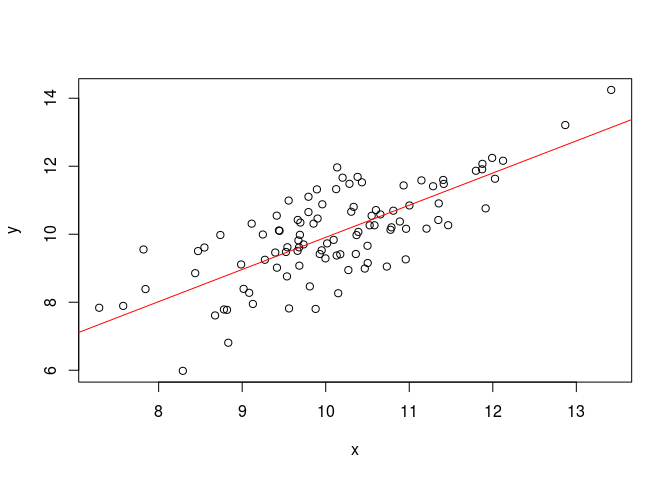
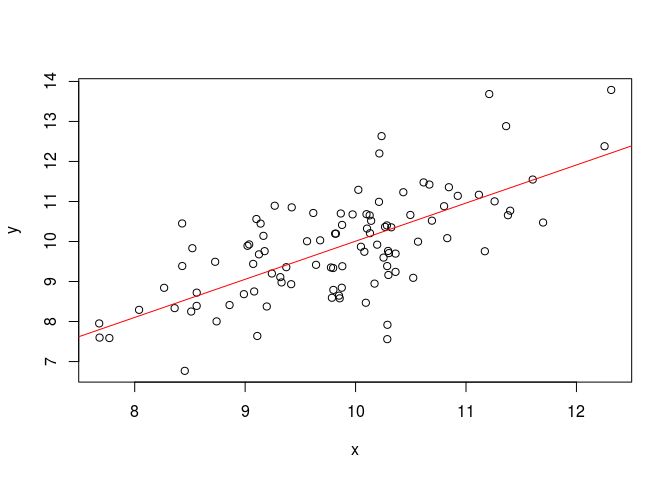
Readme

diff --git a/README.md b/README.md
@@ -1,19 +1,114 @@
+Bayesian linear regression
+================
+Lukasz Telezynski
+2017-01-14
+
 blm package
 ===========
 
 Description
 -----------
 
-blm is a R package that can be used to fit bayesian linear models.
+blm is a R package that can be used to fit bayesian linear models. It creates blm objects and is very similar to lm().
+
+Usage example
+-------------
+
+First blm package needs to be loaded into R.
+
+``` r
+library(blm)
+```
+
+We need some data so we generate a dataset with 2 variables x and y.
+
+``` r
+x <- stats::rnorm(100, 10, 1)
+y<- stats::rnorm(100, x, 1)
+fit<-blm(y~x,1,1)
+```
+
+Finally, we can create blm object which fits linear model to our data with one explanatory variable x and response y.
+
+``` r
+fit<-blm(y~x,1,1)
+```
+
+Now we can print some information about our fitted model,
+
+``` r
+summary(fit)
+```
+
+    ## 
+    ## Call:
+    ## blm(y ~ x, 1, 1)
+    ## 
+    ## Residuals:
+    ##         Min          1Q      Median          3Q         Max 
+    ## -2.72205604 -0.55677026  0.02456043  0.55231446  2.52251160 
+    ## 
+    ## Coefficients:
+    ##              Estimate Low 95% CI Upp 95% CI
+    ## (Intercept) 0.4838183 -0.5269846  1.4946212
+    ## x           0.9524575  0.9420190  0.9628959
+    ## 
+    ## Residual standard error: 0.9692381 on 98 degrees of freedom
+    ## R-squared: 0.4494161 ,   Adjusted R-squared:  0.4437979
+    ## F-statistic: 87.72309 on 1 and 98 DF, p-value:  2.877515e-15
+
+or plot some data
+
+``` r
+plot(fit)
+```
+
+![](README_files/figure-markdown_github/unnamed-chunk-5-1.png)
 
 Installation
 ------------
 
 Since blm package is available only through github, devtools package can be used to install it.
 
-1.  Installing devtools package
+1.  Install and load devtools package (ommit installation if already installed)
 
-``` r
-install.packages("devtools")
-library(devtools)
-```
+    ``` r
+    install.packages("devtools")
+    library(devtools)
+    ```
+
+2.  Install blm package using devtools
+
+    ``` r
+    install_github("lttelezynski/blm")
+    ```
+
+Functions
+---------
+
+1.  blm() Constructor creating object of class blm with a fitted model. Requires data and formula in format response~explanatory.
+
+2.  coefficients() Given blm object as an argument, returns its coefficients.
+
+3.  confint() Given blm object as an argument, returns confidence intervals of coefficients.
+
+4.  deviance() Given blm object as an argument, returns sum of squared distances between observed and predicted response variables.
+
+5.  fitted() Given blm object as an argument, returns its fitted values.
+
+6.  plot() Given blm object as an argument, plots data and regression line for datasets with only one explanatory variable.
+
+7.  predict() Given blm object as an argument, returns predictions of response variable. New data can be passed through ... argument.
+
+8.  print() Given blm object as an argument, prints out function call and coefficients.
+
+9.  residuals() Given blm object as an argument, returns residuals - differences between observed and fitted values of response variable.
+
+10. summary() Given blm object as an argument, returns summary about fitted model.
+
+-   Function call
+-   Residuals (Min, 1Q, Median, 3Q, Max)
+-   Coefficients (Estimate with 95% confidence intervals)
+-   Residual standard error
+-   R² and Adjusted R²
+-   F-statistic and p-value
